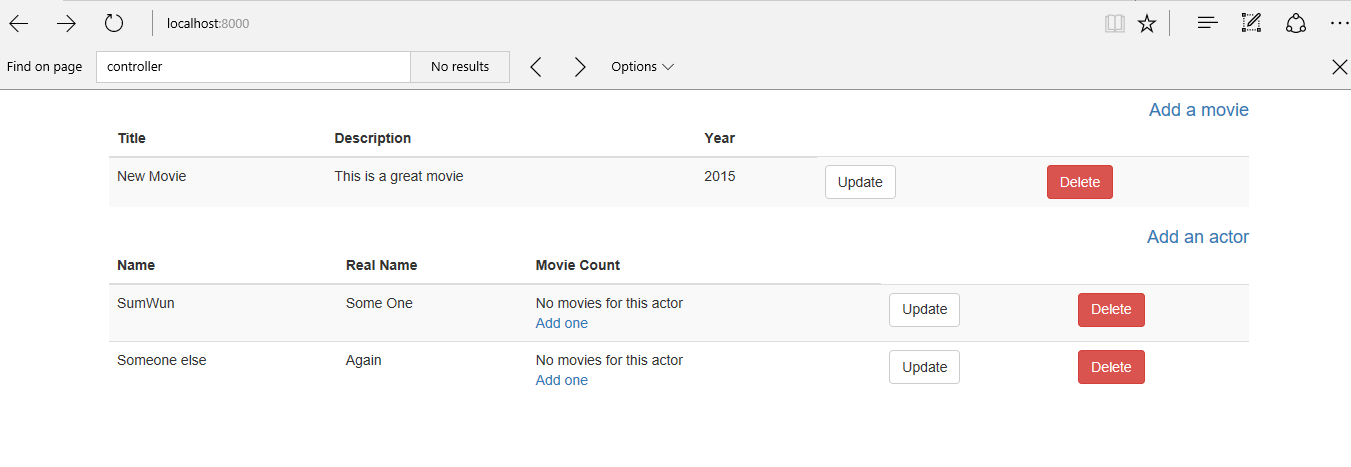
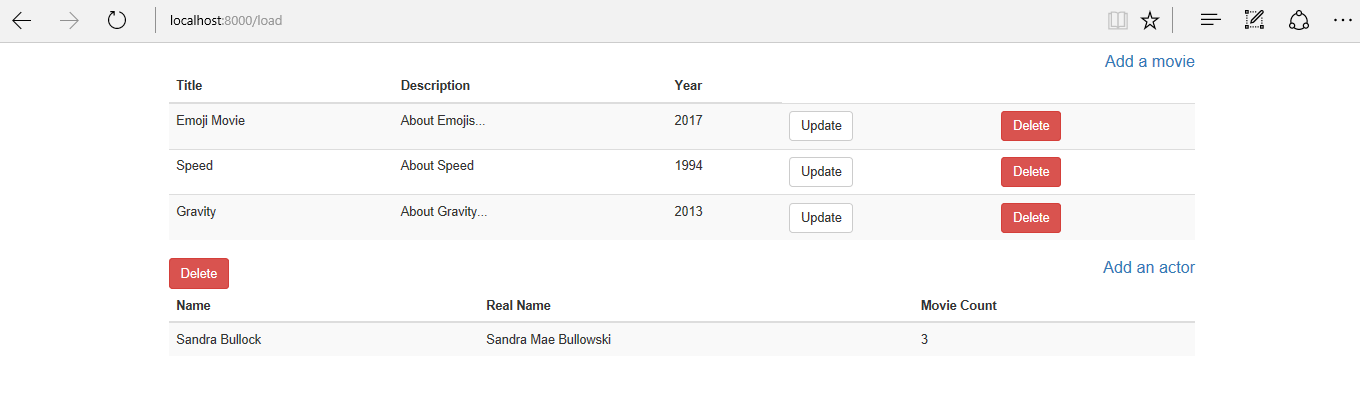
Updated Lesson 10

diff --git a/Laravel/Lesson10.md b/Laravel/Lesson10.md
@@ -4,9 +4,8 @@
 ## Learning Objectives
 This lesson will take you through: 
 - Creating two models - Actors and Movies - that have a many to many relationship 
-- Creating the table that will record details of the relationship 
-- Creating a function to establish the many to many relationship between data that is being entered into the application. 
-- Creating a form to show that the relationship has successfully been created
+- Creating relationships between Actors and Movies that are generated within the applicaiton
+- Creating the table that will display details of the relationship 
 
 ## The Walkthrough
 
@@ -14,7 +13,7 @@ This lesson will take you through:
 
 2. Create a database called actorsandmovies
 
-3.Use Lesson 04 to set up your database configuration in your new project.  
+3. Use Lesson 04 to set up your database configuration in your new project.  
 
 4. Create a Movie model and a migration to create the movies table
 
@@ -177,10 +176,56 @@ class ActorMovie extends Migration
 
 ```
 
-6. Create a landing page to display a list of movies and actors: 
+6. Modify the model for Actor to define its relationship to Directors:
+* Edit the Actor model to look like this:
+``` php 
+<?php
+
+namespace App;
+
+use Illuminate\Database\Eloquent\Model;
+
+class Actor extends Model
+{
+    //
+
+
+    public function movies()
+    {
+        return $this->belongsToMany('App\Movie'); 
+    }
+}
+```
+
+7. Modify the model for Movie to define its relationship to Actors: 
+* Edit the Movie Model to look like this: 
+``` php 
+
+<?php
+
+namespace App;
+
+use Illuminate\Database\Eloquent\Model;
+
+class Movie extends Model
+{
+    //
+
+  public function actors()
+  {
+            return $this->hasMany('App\Actor'); 
+
+  }
+
+}
+
+```
+
+
+8. Create a landing page to display a list of movies and actors: 
 
 Create a file called movieindex.blade.php in the resources\views folder and edit it to look like this: 
-``` html 
+``` php
 <!DOCTYPE html>
 
 <html lang="en" xmlns:th="www.thymeleaf.org">
@@ -192,39 +237,134 @@ Create a file called movieindex.blade.php in the resources\views folder and edit
 </head>
 <body>
 <div class="container">
-		<table class="table table-striped">
-			<thead>
-					<tr>
-						<th>Title</th>
-						<th>Description</th>
-						<th>Year</th>
-						</tr>
-			</thead>
-			<tbody
-
-				@forelse($movies as $movie)
-					<tr>
-						<td>{{$movie->title}}</td>
-						<td>{{$movie->description}}</td>
+        <table class="table table-striped">
+            <thead>
+                @if(count($movies))
+                 <h4><a class="pull-right" href="/movies/create">Add a movie </a> </h4>
+                @endif
+                    <tr>
+                        <th>Title</th>
+                        <th>Description</th>
+                        <th>Year</th>
+                        </tr>
+            </thead>
+            <tbody
+"
+                @forelse($movies as $movie)
+                    <tr>
+                        <td>{{$movie->title}}</td>
+                        <td>{{$movie->description}}</td>
                         <td>{{$movie->year}}</td>
-						</form>
-						</td>
-					</tr>
-				@empty
-					<h4> This is a list of movies. No movies are available right now, please <a href="/movies/create">Add one </a> </h4>
-				@endforelse
-			</tbody>
+                        </form>
+                        </td>
+                    </tr>
+                @empty
+                    <h4> This is a list of movies. No movies are available right now. <a href="/load">You can load the data</a></h4>
+                @endforelse
+            </tbody>
 </table>
+<table class="table table-striped">
+            <thead>
+                @if(count($actors))
+                 <h4><a class="pull-right" href="/actors/create">Add an actor </a> </h4>
+                @endif
+                    <tr>
+                        <th>Name</th>
+                        <th>Real Name</th>
+                        <th>Movie Count</th>
+                        </tr>
+            </thead>
+            <tbody>
+                @forelse($actors as $actor)
+                    <tr>
+                        <td>{{$actor->name}}</td>
+                        <td>{{$actor->realname}}</td>
+                        @if($actor->movies->count())
+                            <td>{{$actor->movies->count()}}</td>
+                        @else
+                            <td>No movies for this actor
+                            <br> 
+                            </td>
+                        @endif
+                        </td>
+                    </tr>
+                @empty
+                    <h4> This is a list of actors. No actors are available right now, please <a href="/load">load data </a> </h4>
+                @endforelse
+        </tbody>
+</table>
+
 </div>
 </body>
 </html>
-
 ```
+
+9. Edit the web.php file in the routes foler to look like this:
+
+``` php 
+<?php
+
+/*
+|--------------------------------------------------------------------------
+| Web Routes
+|--------------------------------------------------------------------------
+|
+| Here is where you can register web routes for your application. These
+| routes are loaded by the RouteServiceProvider within a group which
+| contains the "web" middleware group. Now create something great!
+|
+*/
+
+use App\Movie;
+use App\Actor;
+
+Route::get('/',function() {
+    return view('movieindex')
+   ->with('movies',App\Movie::all())
+   ->with('actors',App\Actor::all());
+});
+
+Route::get('/load',function(){
+
+       $actor = new App\Actor; 
+       $actor->name="Sandra Bullock";
+       $actor->realname="Sandra Mae Bullowski"; 
+       $actor->save(); 
+
+       $movie = new App\Movie; 
+       $movie->title="Emoji Movie";
+       $movie->year=2017; 
+       $movie->description="About Emojis..."; 
+       $actor->movies()->save($movie);
+
+       $movie = new App\Movie; 
+       $movie->title="Speed";
+       $movie->year=1994; 
+       $movie->description="About Speed";
+       $actor->movies()->save($movie);
+
+       $movie = new App\Movie; 
+       $movie->title="Gravity";
+       $movie->year=2013; 
+       $movie->description="About Gravity..."; 
+
+       $actor->movies()->save($movie);
+
+        return view('movieindex')
+       ->with('movies',App\Movie::all())
+       ->with('actors',App\Actor::all());
+});
+
+Route::resource('actors','ActorController');
+Route::resource('movies','MovieController');
+```
+
+10. Open up your browser and navigate to http://localhost:8000/ 
 
 The application should look like this: 
 ![Actors and Movies](https://github.com/ajhenley/unofficialguides/blob/master/Laravel/img/listmoviesandactors.png "Creating a many to many relationship")
 
-9. Examine the database 
+10. Examine the database 
 
 
 ## What is Going On
